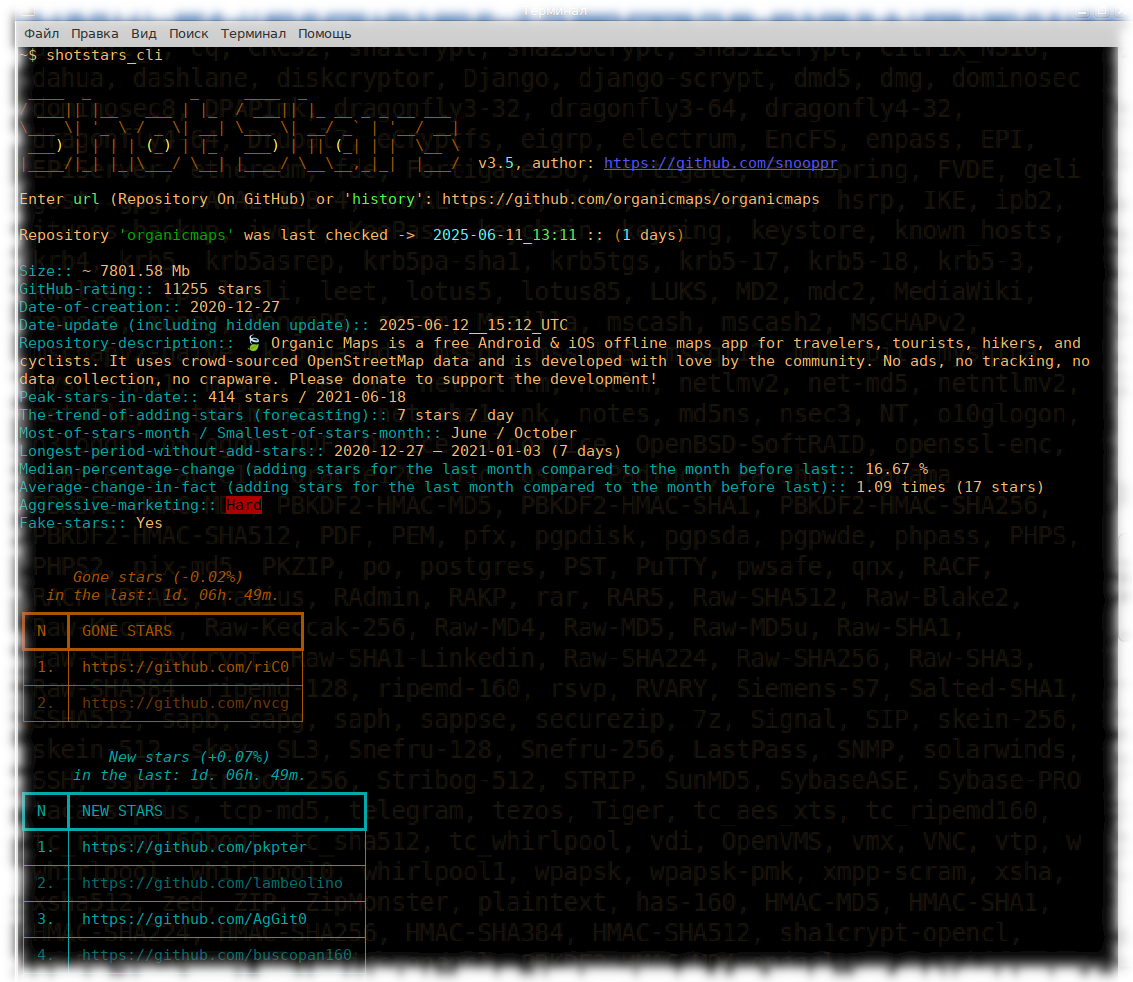
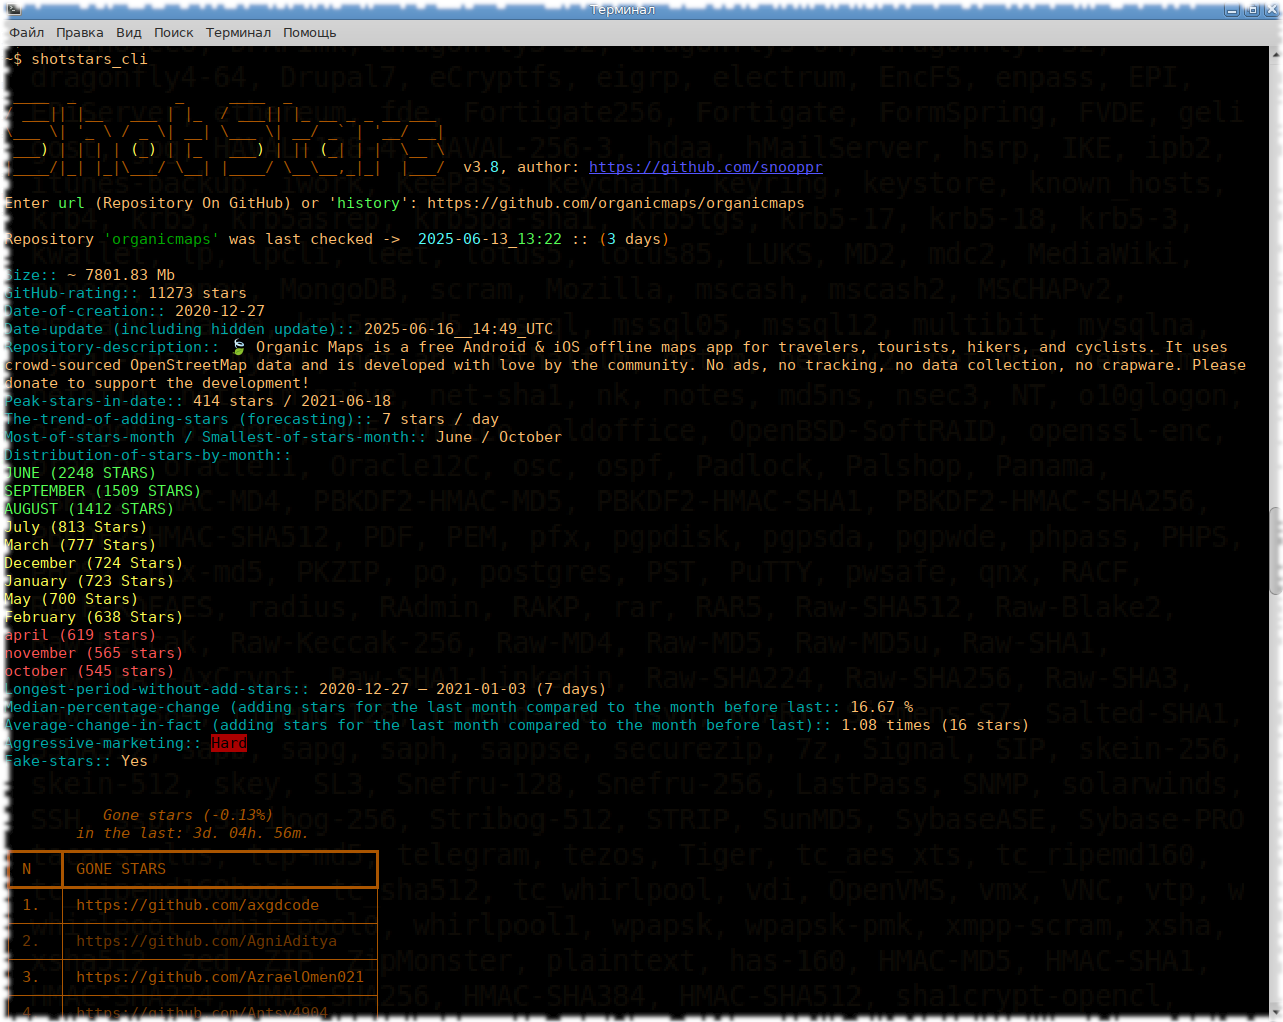
New version 3.8
— Added new metric "Distribution-of-stars-by-month"
(breakdown of all stars by month based on quartiles, can also display separately the number of
private stars).

Related #10

Changed region(s): [[0.0, 0.0, 1.0, 1.0], [0.865, 0.1222, 0.8959, 0.1527]]

diff --git a/shotstars/shotstars.py b/shotstars/shotstars.py
@@ -39,7 +39,7 @@ console.print(r"""[yellow]
 / ___|| |__   ___ | |_  / ___|| |_ __ _ _ __ ___
 \___ \| '_ \ / _ \| __| \___ \| __/ _` | '__/ __|
  ___) | | | | (_) | |_   ___) | || (_| | |  \__ \
-|____/|_| |_|\___/ \__| |____/ \__\__,_|_|  |___/[/yellow]  v3.7, author: https://github.com/snooppr
+|____/|_| |_|\___/ \__| |____/ \__\__,_|_|  |___/[/yellow]  v3.8, author: https://github.com/snooppr
 """)
 
 
@@ -141,7 +141,7 @@ def cross_user_detect(base_users):
                                 border_style="magenta"))
 
         padding = 0 if Android else (0, 1)
-        table_his = Table(title=f"\n[bold red]CROSS USERS (in CLI = max 5 users, in HTML = full users)[/bold red]",
+        table_his = Table(title=f"\n[bold red]CROSS-USERS (in CLI = max 5 users, in HTML = full users)[/bold red]",
                           title_justify="center", header_style='bold red', style="bold red", padding=padding, show_lines=True)
         table_his.add_column("N", justify="left", style="bold green", no_wrap=False)
         table_his.add_column("Q/S", justify="left", style="red", no_wrap=False)
@@ -603,7 +603,7 @@ def parsing(diff=False):
     config.read(os.path.join(os.path.dirname(path), "config.ini"))
     token = config.get('Shotstars', 'token')
     if token != "None":
-        head = {'User-Agent': f'Shotstars v3.7', 'Authorization': f'Bearer {token}'}
+        head = {'User-Agent': f'Shotstars v3.8', 'Authorization': f'Bearer {token}'}
     elif token == "None":
         head = {'User-Agent': f'Mozilla/5.0 (X11; Linux x86_64; rv:{random.randint(119, 127)}.0) Gecko/20100101 Firefox/121.0'}
 
@@ -727,6 +727,8 @@ def parsing(diff=False):
 
     trend = f"1 stars / day" if trend == 0.5 else f"{round(trend)} stars / day"
 
+    none_statistic = "The repository is still young, not enough data"
+
     if dif_date > 62:
         relative_start = statistics.median([i[1] for i in sort_alldate_stars[-60:-30]])
         relative_end = statistics.median([i[1] for i in sort_alldate_stars[-30:]])
@@ -758,7 +760,6 @@ def parsing(diff=False):
             marketing, marketing_color = "Hard+", "[black on red]Hard+[/black on red]"
             fuckstars = "Yes, multiple attempts to promote fake stars"
     else:
-        none_statistic = "The repository is still young, not enough data"
         relative_percentage = none_statistic
         average_change = none_statistic
         average_change_stars = none_statistic
@@ -779,7 +780,23 @@ def parsing(diff=False):
     high_stars_month = months[cnt_month_sum.most_common()[0][0] - 1]
     low_stars_month = months[cnt_month_sum.most_common()[-1][0] - 1]
 
+## Расчет месяцев по квартилям: x < Q1; Q1-Q3; x > Q3.
+    if dif_date > 32:
+        l_cnt_month_sum = list(sorted(cnt_month_sum.values()))
+        Q1 = statistics.median(l_cnt_month_sum[:len(l_cnt_month_sum) // 2])
+        Q3 = statistics.median(l_cnt_month_sum[(len(l_cnt_month_sum) + 1) // 2:])
+        Q1_Q3_index = len([x for x in l_cnt_month_sum if Q1 <= x <= Q3 and x != 0])
+        Q3_index = len([x for x in l_cnt_month_sum if x > Q3 and x != 0])
+        Q3_print = [f"{str(months[i[0]-1]).upper()} ({i[1]} STARS)" for i in cnt_month_sum.most_common(Q3_index)]
+        Q1_Q3_print = [f"{months[i[0]-1]} ({i[1]} Stars)" for i in cnt_month_sum.most_common()[Q3_index:Q3_index+Q1_Q3_index]]
+        Q1_print = [f"{str(months[i[0]-1]).lower()} ({i[1]} stars)" for i in cnt_month_sum.most_common()[Q3_index+Q1_Q3_index:]]
+    else:
+        Q1_print, Q1_Q3_print, Q3_print = [none_statistic], [none_statistic], [none_statistic]
+
     max_stars, in_date = Maximum_stars_in_date.most_common(1)[0][-1], Maximum_stars_in_date.most_common(1)[0][0]
+
+## Private stars
+    private_stars = abs(stars - sum(cnt_month_sum.values()))
 
 ## Самый продолжительный период без прибавления звезд.
     max_zeros, current_zeros = 0, 0
@@ -805,12 +822,18 @@ def parsing(diff=False):
                              datetime.timedelta(days=tuple_date_no_stars[1])).strftime('%Y-%m-%d')
     except Exception:
         end_date_no_stars = "—"
-##
 
+## Печать инфострок.
     console.print(f"[cyan]Peak-stars-in-date::[/cyan] {max_stars} stars / {in_date}", highlight=False)
     console.print(f"[cyan]The-trend-of-adding-stars (forecasting)::[/cyan] {trend}", highlight=False)
     console.print(f"[cyan]Most-of-stars-month / Smallest-of-stars-month::[/cyan] " + \
                   f"{high_stars_month} / {low_stars_month}", highlight=False)
+    if dif_date > 32:
+        console.print(f"[cyan]Distribution-of-stars-by-month" + \
+                      f"{' (' + str(private_stars) + ' private stars)' if private_stars != 0 else ''}::[/cyan]{chr(10)}" + \
+                      f"[bold green]{chr(10).join(Q3_print) if Q3_print else '-'*20}[/bold green]\n" + \
+                      f"[bold yellow]{chr(10).join(Q1_Q3_print)}" + \
+                      f"[/bold yellow]\n[bold red]{chr(10).join(Q1_print) if Q1_print else '-'*20}[/bold red]", highlight=False)
     console.print(f"[cyan]Longest-period-without-add-stars::[/cyan] " + \
                   f"{tuple_date_no_stars[0]} — {end_date_no_stars} ({tuple_date_no_stars[1]} days)", highlight=False)
     console.print(f"[cyan]Median-percentage-change (adding stars for the last month compared to the month before last" + \
@@ -903,6 +926,7 @@ transition: transform 0.15s}
                 if bool(diff_lst_dn):
                     table_dn = html_rec(file_html, diff_lst_dn, table_dn)
 
+                sp = "<br>&nbsp;&nbsp;&nbsp;&nbsp;"
                 file_html.write(f"\n<a class='but' href='file://{path}/all_gone_stars.html' " + \
                                 "title='open all history gone stars'>open all history</a>\n" + \
                                 f"\n<a class='but' href='file://{path}/graph_all_gone_stars.html' " + \
@@ -914,6 +938,10 @@ transition: transform 0.15s}
                                 f"🌟 Peak-stars-in-date:: {max_stars} / {in_date}<br>\n" + \
                                 f"📈 The-trend-of-adding-stars (forecasting):: {trend}<br>\n" + \
                                 f"📅 Most-of-stars-month / Smallest-of-stars-month:: {high_stars_month} / {low_stars_month}<br>\n" + \
+                                f"📅 Distribution-of-stars-by-month" + \
+                                f"{' (' + str(private_stars) + ' private stars)' if private_stars != 0 else ''}::{chr(10)}{sp}" + \
+                                f"{sp.join(Q3_print) if Q3_print else '-'*20}\n{sp}{sp.join(Q1_Q3_print)}" + \
+                                f"\n{sp}{sp.join(Q1_print) if Q1_print else '-'*20}<br>\n" + \
                                 f"0⃣ Longest-period-without-add-stars:: {tuple_date_no_stars[0]} — " + \
                                 f"{end_date_no_stars} ({tuple_date_no_stars[1]} days)<br>\n" + \
                                 f"📊 Median-percentage-change (adding stars for the last month compared " + \

diff --git a/README.md b/README.md
@@ -13,10 +13,10 @@ For example, can a network user say: how many stars have been added or subtracte
 Shotstars will care about and count specifically those GitHub users who have removed, added stars to any project; or set their profile to "private"; or even left the platform entirely. In addition to statistics, the tool allows you to identify repositories with fake stars.  
 
 **Claimed functions:**  
-- [X] Shotstars will help find and expose naked kings and their retinue *(fact: stars in some repositories are inflated)*  
+- [X] Shotstars will help find and expose naked kings and their retinue *(fact: stars in some repositories are inflated).*  
 - [X] Shotstars calculates parameters: aggressive marketing, trend, fake stars, peak of popularity and its date.  
 - [X] Shotstars will calculate progress or regression over the last month *(median - trend in percentage change and average - calculated in fact in times).*  
-- [X] Shotstars Shotstars will calculate the names of the months that had the most and the least stars *(mode / anti-mode)*.  
+- [X] Shotstars Shotstars will calculate the names of the months that had the most and the least stars *(mode / anti-mode)*, and will also display the entire history of stars by quartiles.  
 - [X] Shotstars will output the longest period of time without adding stars.  
 - [X] Shotstars scans repositories for stars added and removed with statistics for a selected time period.  
 - [X] Shotstars reports the real date of the repository *(fact: developers can declare/fake/change the date of their projects commits, but Shotstars will not fool them, the utility will display real numbers)*.  
@@ -33,8 +33,8 @@ Shotstars will care about and count specifically those GitHub users who have rem
  ---
 
 ## ⌨ Native Installation  
-[![Downloads](https://static.pepy.tech/badge/shotstars)](https://pepy.tech/projects/shotstars?timeRange=threeMonths&category=version&includeCIDownloads=true&granularity=daily&viewType=table&versions=3.7)
-![Static Badge](https://img.shields.io/badge/latest%20v3.7-430094?link=https%3A%2F%2Fraw.githubusercontent.com%2Fsnooppr%2Fshotstars%2Frefs%2Fheads%2Fmain%2Fchangelog)  
+[![Downloads](https://static.pepy.tech/badge/shotstars)](https://pepy.tech/projects/shotstars?timeRange=threeMonths&category=version&includeCIDownloads=true&granularity=daily&viewType=table&versions=3.8)
+![Static Badge](https://img.shields.io/badge/latest%20v3.8-430094?link=https%3A%2F%2Fraw.githubusercontent.com%2Fsnooppr%2Fshotstars%2Frefs%2Fheads%2Fmain%2Fchangelog)  
 
 
 ```
@@ -112,7 +112,7 @@ Shotstars позволяет следить со стороны <u>за любы
 - [X] Shotstars поможет найти и разоблачить голых королей и их свиту *(факт: звезды в некоторых репозиториях накручивают)*.  
 - [X] Shotstars рассчитывает параметры: агрессивный маркетинг, тренд, фейковые звезды, пик популярности и его дата.  
 - [X] Shotstars рассчитает прогресс или регресс за последний месяц *(медиану — тенденцию в процентном изменении и среднее — рассчитанное по факту в разах).*  
-- [X] Shotstars вычислит имена месяцев, в которых было всех больше и всех меньше получено звезд *(мода / анти-мода)*.  
+- [X] Shotstars вычислит имена месяцев, в которых было всех больше и всех меньше получено звезд *(мода / анти-мода)*, а также выведет всю историю звезд по квартилям.  
 - [X] Shotstars выведет самый протяженный период времени без прибавления звезд.  
 - [X] Shotstars проверяет репозитории на предмет прибавления и убавления звезд со статистикой за выбранный период времени.  
 - [X] Shotstars сообщает реальную дату создания репозитория *(факт: разработчики могут заявлять/подделывать/изменять дату создания своих проектов и коммитов, но Shotstars им не обмануть, утилита отобразит реальные цифры)*.  
@@ -192,16 +192,20 @@ Shotstars is awesome, it sees everything. Github says the repository hasn't had 
 
 + **"Most-of-stars-month / Smallest-of-stars-month"** — The metric displays the calculation of two months in the entire history of the repository (the most profitable month by stars and the month with the least stars, mode / anti-mode).  
 
-+ **"Longest-period-without-add-stars"** — The metric displays the longest time span when no stars were submitted to the repository, i.e. every day in a row there were 0 stars (black bar).  
++ **"Distribution-of-stars-by-month"** — Calculation of stars by month for the entire history of the repository (may include rare phenomenon: private stars, when the sum of all stars ≠ 'GitHub-rating'), coloring of the range of stars by quartiles (green: x > Q3); (yellow: Q1 <= x <= Q3); (red: x < Q1), The font size also decreases from Q3...Q1. Groups are not always arranged "3/6/3", for example, the groups of the "Shotstars" repository are arranged "3/4/5". The characteristic is calculated when the age of the repository is at least one month.  
 
-+ **"Median-percentage-change"** — The metric reflects the average trend in stars (i.e. does not take into account sharp fluctuations in stars, such as fake stars or a sharp drop/popularity from the media), calculated as a percentage, the ratio of the last month to the penultimate month. Positive numbers are easy to interpret, negative ones are not. The simplest example: a user scans a repository at the beginning of January (in November, the repository received +30 stars, and in December, +60 stars), the metric will display "100%"; if everything was the other way around (in November, the repository received +60 stars, and in December, +30 stars), the metric will display "-50%" (not "-1~~00%"~~).  
++ **"Longest-period-without-add-stars"** — The metric displays the longest time span when no stars were submitted to the repository, i.e. every day in a row there were 0 stars (black streak).  
 
-+ **"Average-change-in-fact"** — Unlike the "Median-percentage-change" metric, it reflects not the average trend, but the real state of affairs, i.e. the arithmetic mean and takes into account all fluctuations and dips in stars for the same period (the ratio of the last month to the penultimate month), but is calculated not in percentages, but in times and units (stars). Example: in November the repository added +30 stars, in December +60 stars, then the metric will display - "2 times (30 stars)" and vice versa, if in November +60 stars, and in December +30 stars, then the metric will display - "-2 times (-30 stars)".  
++ **"Median-percentage-change"** — The metric reflects the average trend in stars (i.e. does not take into account sharp fluctuations in stars, such as fake stars or a sharp drop/popularity from the media), calculated as a percentage, the ratio of the last month to the penultimate month. Positive numbers are easy to interpret, negative ones are not. The simplest example: a user scans a repository at the beginning of January (in November, the repository received +30 stars, and in December, +60 stars), the metric will display "100%"; if everything was the other way around (in November, the repository received +60 stars, and in December, +30 stars), the metric will display "-50%" (not "-1~~00%"~~). The characteristic is calculated when the repository is at least two months old.  
 
-+ **"Aggressive-marketing"** — The metric accepts the following values: "—"; "Low"; "Medium"; "High"; "Hard"; "Hard+". "—" means that the repository consistently receives or does not receive stars, without jumps, usually such repositories do not care about their popularity, are rarely/not mentioned in the media. "Low"; "Medium"; "High" — these repositories are repeatedly mentioned in the media, the movement of stars is uneven, they can attract hundreds of stars per day, the popularity of the repositories is high. "Hard" — frequent and frantic, uneven movement of stars, i.e. unnatural, the promotion of fake stars. "Hard+" — usually this is multiple promotion of fake stars in large quantities, i.e. more than once.  
++ **"Average-change-in-fact"** — Unlike the "Median-percentage-change" metric, it reflects not the average trend, but the real state of affairs, i.e. the arithmetic mean and takes into account all fluctuations and dips in stars for the same period (the ratio of the last month to the penultimate month), but is calculated not in percentages, but in times and units (stars). Example: in November the repository added +30 stars, in December +60 stars, then the metric will display - "2 times (30 stars)" and vice versa, if in November +60 stars, and in December +30 stars, then the metric will display - "-2 times (-30 stars)". The characteristic is calculated when the repository is at least two months old.  
 
-+ **"Fake-stars"** — The metric takes the following values: "Yes"; "Yes, multiple attempts to promote fake stars". In the first case, this could be a one-time, but large promotion of fake stars or regular promotion of stars little by little. In the second case, these are obvious and multiple promotions of fake stars.  
++ **"Aggressive-marketing"** — The metric accepts the following values: "—"; "Low"; "Medium"; "High"; "Hard"; "Hard+". "—" means that the repository consistently receives or does not receive stars, without jumps, usually such repositories do not care about their popularity, are rarely/not mentioned in the media. "Low"; "Medium"; "High" — these repositories are repeatedly mentioned in the media, the movement of stars is uneven, they can attract hundreds of stars per day, the popularity of the repositories is high. "Hard" — frequent and frantic, uneven movement of stars, i.e. unnatural, the promotion of fake stars. "Hard+" — usually this is multiple promotion of fake stars in large quantities, i.e. more than once. The characteristic is calculated when the repository is at least two months old.  
 
-+ **"GONE_STARS"** — The metric displays those users: who removed their stars from the repository; or deleted their account from the Github platform; or switched their profile to "private" mode - such a profile, like a deleted one, can lead to "404" by link, i.e. Github (not always) completely hides all user activity and their personal page, but such an account can conduct activity that is almost never displayed anywhere except by the account owner (for example, only reactions are displayed).  
++ **"Fake-stars"** — The metric takes the following values: "Yes"; "Yes, multiple attempts to promote fake stars". In the first case, this could be a one-time, but large promotion of fake stars or regular promotion of stars little by little. In the second case, these are obvious and multiple promotions of fake stars. The characteristic is calculated when the repository is at least two months old.  
+
++ **"New stars"** — New stars for the repository from the penultimate scan to the last scan. The characteristic is calculated based on the frequency of repository scans. For the graph, the actual parsing is calculated, i.e. the stars received for the entire history of the repository.  
+
++ **"Gone stars"** — The metric displays those users: who removed their stars from the repository; or deleted their account from the Github platform; or switched their profile to "private" mode - such a profile, like a deleted one, can lead to "404" by link, i.e. Github (not always) completely hides all user activity and their personal page, but such an account can conduct activity that is almost never displayed anywhere except by the account owner (for example, only reactions are displayed). Gone stars for the repository for the period from the penultimate scan to the last scan. The characteristic is calculated based on the frequency of repository scans.  
 
 + **"cross-users"** — The metric only displays those overlapping users that overlap in the scanned repositories relative to a specific scanned repository.  
